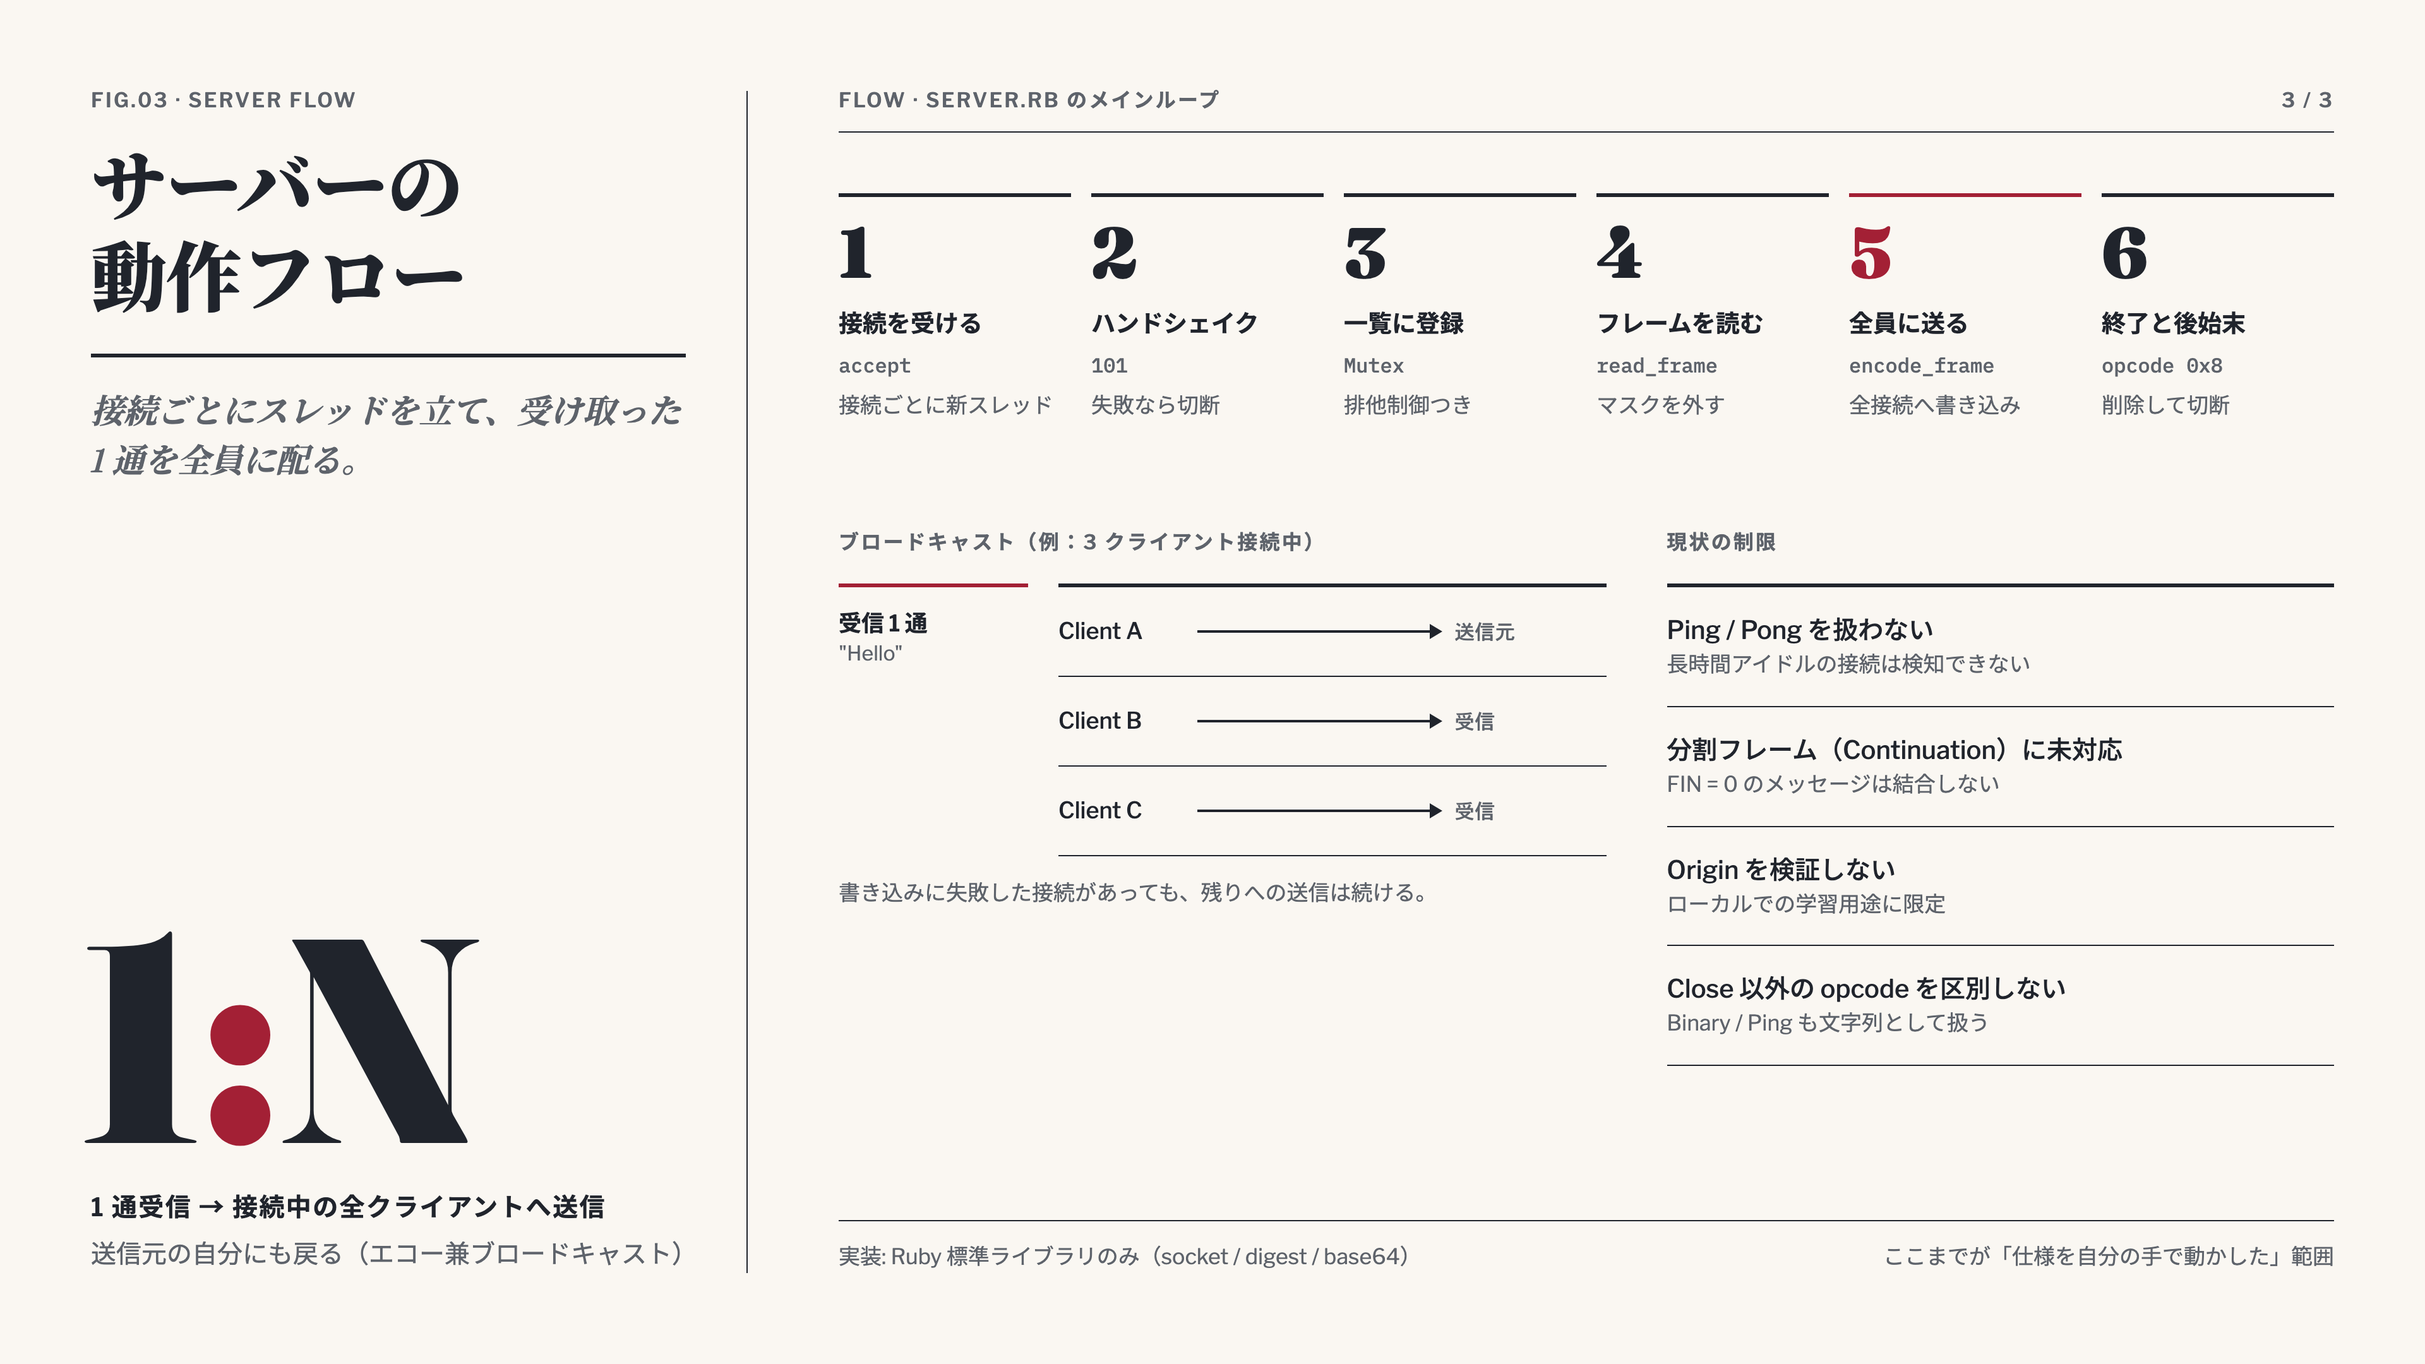
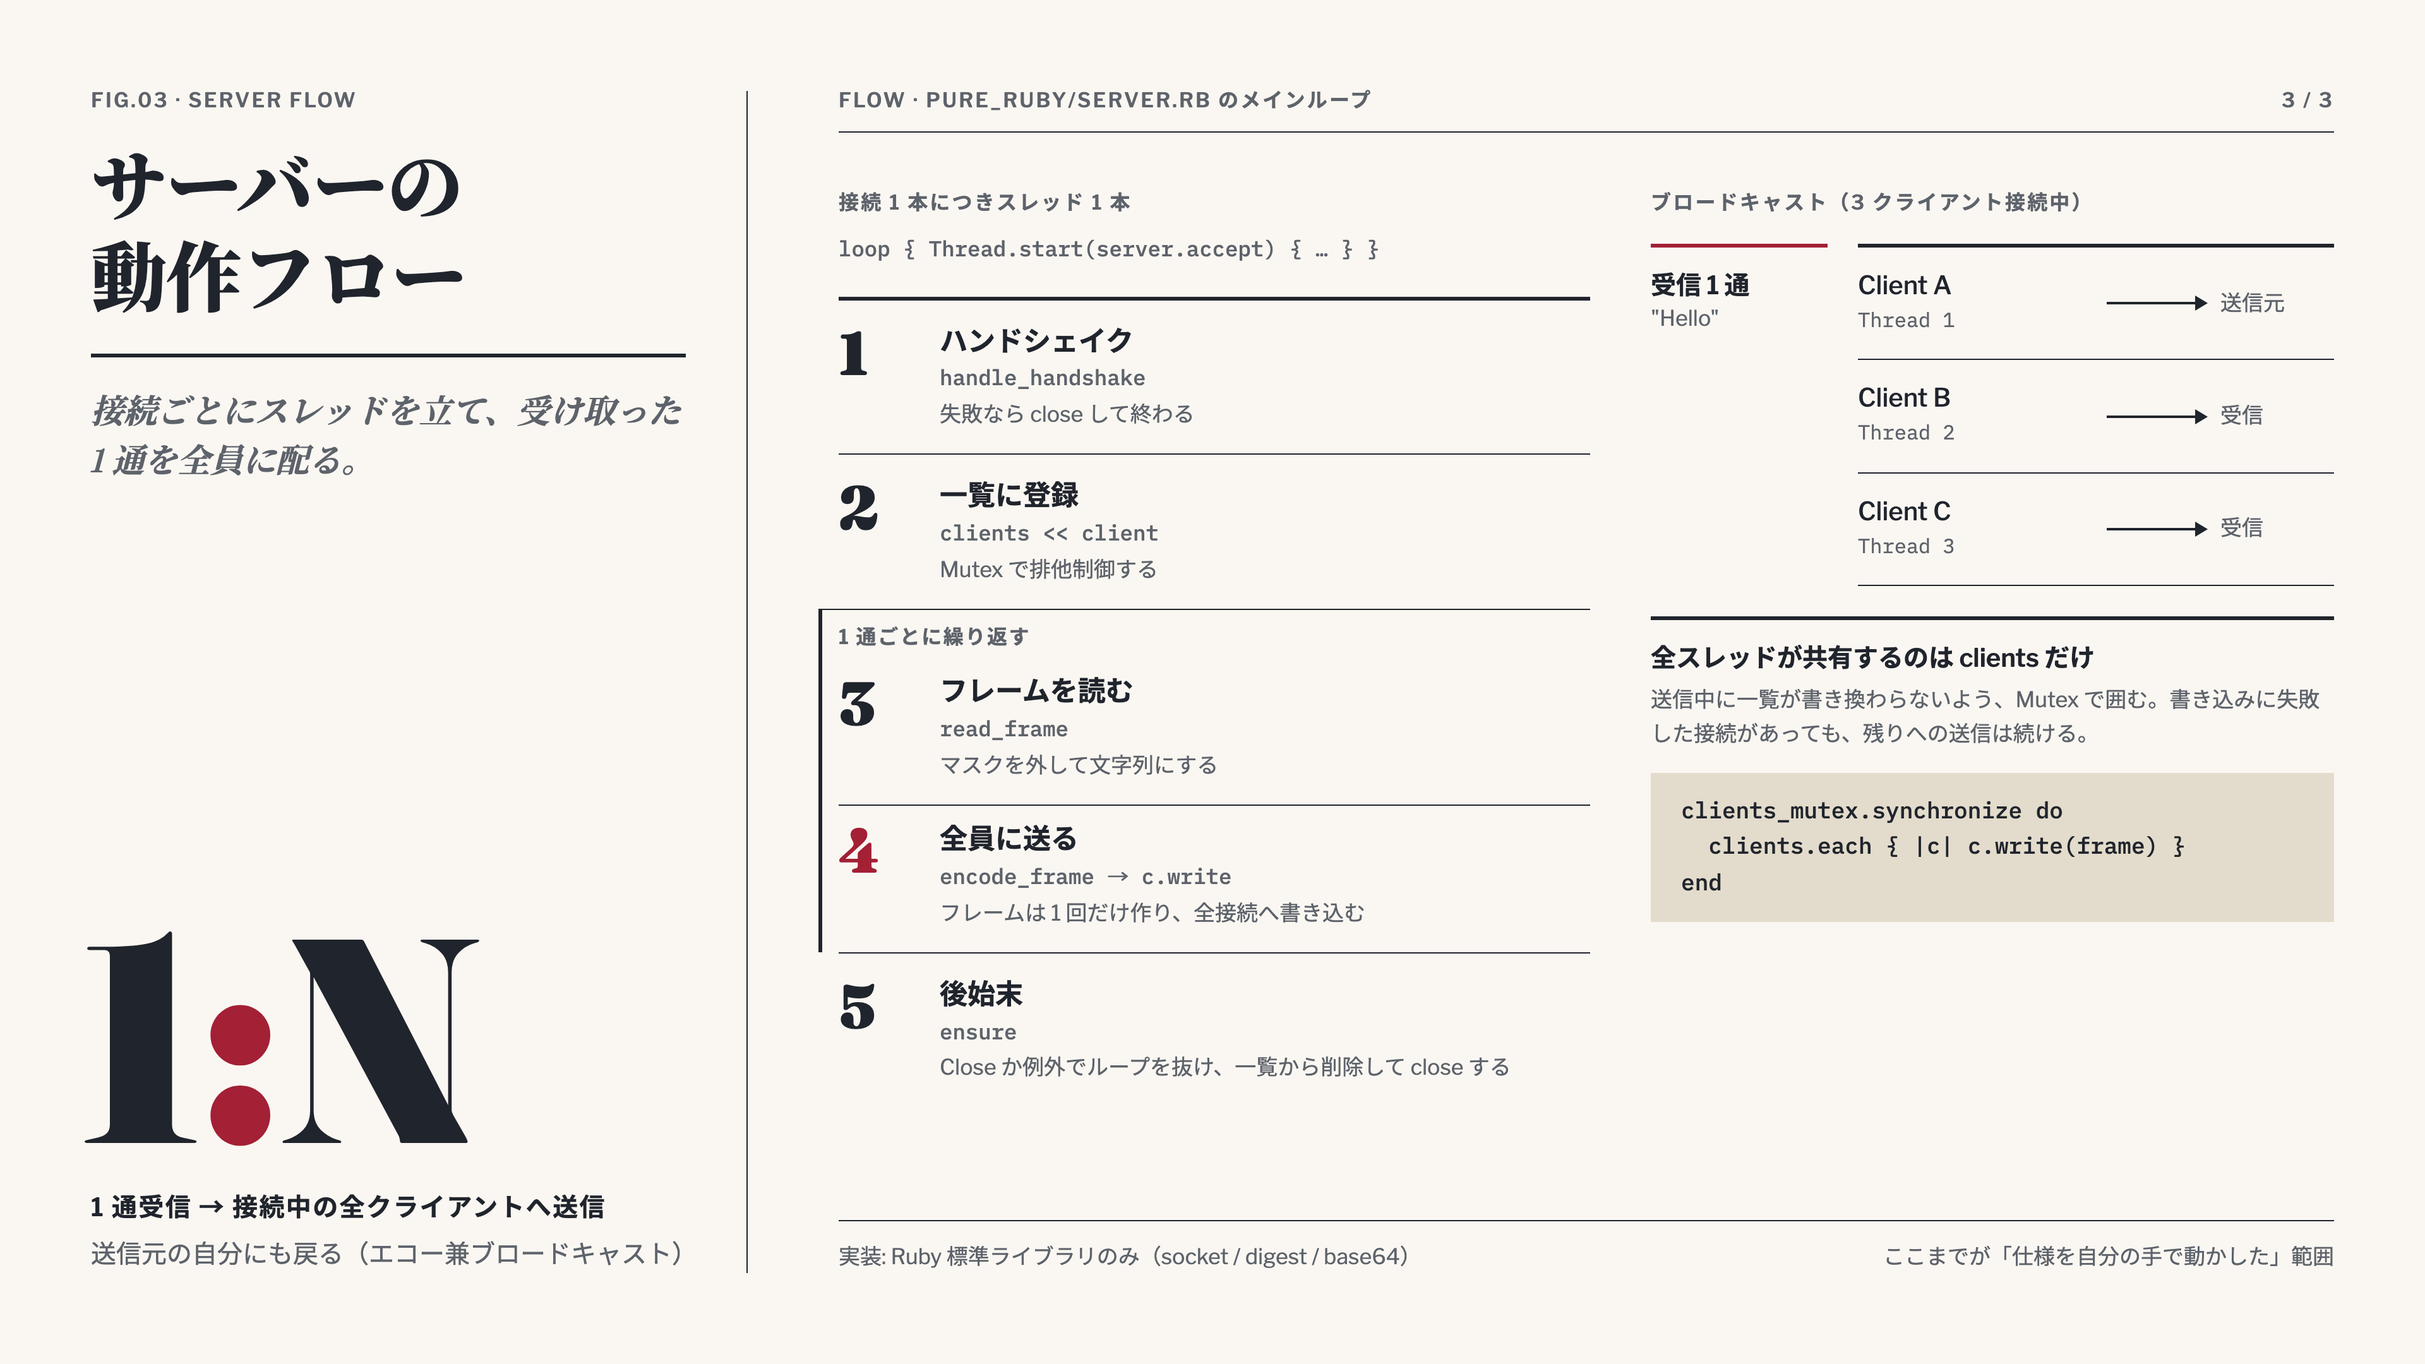
Add Action Cable chat channel, figures and README part 3
- rails: enable Action Cable, async adapter, Connection/Channel/ChatChannel, test client in public/
- docs: add Action Cable structure figure, rework FIG.03 server flow, fix FIG.01 header path
- README: add part 3 (Rails / Action Cable), align 2.3 steps with FIG.03

diff --git a/docs/src/03-server-flow.html b/docs/src/03-server-flow.html
@@ -3,7 +3,7 @@
 <head>
 <meta charset="utf-8">
 <title>WebSocket Server Flow</title>
-<!-- Composition: Editorial spread (1/4 : 3/4). Left column = giant "1:N" numeral (one message in, N frames out), right column = numbered flow steps + broadcast fan-out + limits. -->
+<!-- Composition: Editorial spread (1/4 : 3/4). Left = giant 1:N numeral. Right = two columns: one connection thread lifecycle (with loop bracket) and the shared clients broadcast. -->
 <link rel="preconnect" href="https://fonts.googleapis.com">
 <link rel="preconnect" href="https://fonts.gstatic.com" crossorigin>
 <link href="https://fonts.googleapis.com/css2?family=Fraunces:ital,opsz,wght@0,9..144,400;0,9..144,900;1,9..144,400&family=Libre+Franklin:wght@400;500;600&family=IBM+Plex+Mono:wght@400;500&family=Noto+Sans+JP:wght@400;500;700&family=Noto+Serif+JP:wght@700;900&display=swap" rel="stylesheet">
@@ -36,31 +36,34 @@ h1 { font: 900 60px/1.2 var(--font-display); letter-spacing: -0.01em; margin-top
 .folio { display: flex; justify-content: space-between; font: 600 16px/1 var(--font-body); letter-spacing: .1em; text-transform: uppercase; color: var(--ink-muted); padding-bottom: var(--space-2); border-bottom: 1px solid var(--ink); }
 .sec { font: 600 16px/1 var(--font-body); text-transform: uppercase; letter-spacing: .1em; color: var(--ink-muted); }
 
-.steps { margin-top: var(--space-4); display: grid; grid-template-columns: repeat(6, 1fr); gap: var(--space-2); }
-.st { border-top: 3px solid var(--ink); padding-top: var(--space-2); }
-.st .n { font: 900 56px/1 var(--font-display); }
-.st .h { font: 600 19px/1.4 var(--font-body); margin-top: var(--space-2); }
-.st .c { font: 500 16px/1.5 var(--font-code); color: var(--ink-muted); margin-top: 6px; }
-.st .d { font: 400 17px/1.5 var(--font-body); color: var(--ink-muted); margin-top: var(--space-1); }
-.st.hot { border-top-color: var(--accent); }
-.st.hot .n { color: var(--accent); }
-
-.lower { display: grid; grid-template-columns: 1.15fr 1fr; gap: var(--space-4); margin-top: 88px; }
-.fan { margin-top: var(--space-3); display: grid; grid-template-columns: 150px 1fr; gap: 0 var(--space-3); }
+.cols { display: grid; grid-template-columns: 1.1fr 1fr; gap: var(--space-4); margin-top: var(--space-4); }
+.tag { font: 500 17px/1.5 var(--font-code); color: var(--ink-muted); margin-top: var(--space-2); }
+.flow { margin-top: var(--space-3); }
+.row { display: grid; grid-template-columns: 64px 1fr; gap: 0 var(--space-2); padding: 18px 0; border-top: 1px solid var(--ink); }
+.flow > .row:first-child { border-top: 3px solid var(--ink); }
+.row .n { font: 900 48px/1 var(--font-display); }
+.row .h { font: 600 22px/1.3 var(--font-body); }
+.row .c { font: 500 17px/1.4 var(--font-code); color: var(--ink-muted); margin-top: 4px; }
+.row .d { font: 400 17px/1.5 var(--font-body); color: var(--ink-muted); margin-top: 4px; }
+.row.hot .n { color: var(--accent); }
+.loop { border-left: 3px solid var(--ink); margin-left: -16px; padding-left: 13px; border-top: 1px solid var(--ink); }
+.loop .lp { font: 600 16px/1 var(--font-body); letter-spacing: .08em; color: var(--ink-muted); padding-top: 14px; padding-bottom: 8px; }
+.loop .row { border-top: 0; padding-top: 12px; }
+.loop .row + .row { border-top: 1px solid var(--ink); }
+.fan { margin-top: var(--space-3); display: grid; grid-template-columns: 140px 1fr; gap: 0 var(--space-3); }
 .fan .src { border-top: 3px solid var(--accent); padding-top: var(--space-2); }
-.fan .src b { display: block; font: 600 18px/1.4 var(--font-body); }
-.fan .src span { font: 400 16px/1.5 var(--font-body); color: var(--ink-muted); }
-.fan .dst div { display: grid; grid-template-columns: 110px 1fr 120px; align-items: center; padding: 26px 0; border-bottom: 1px solid var(--ink); font: 500 18px/1 var(--font-body); }
-.fan .dst div:first-child { border-top: 3px solid var(--ink); }
+.fan .src b { display: block; font: 600 20px/1.4 var(--font-body); }
+.fan .src span { font: 400 17px/1.5 var(--font-body); color: var(--ink-muted); }
+.fan .dst > div { display: grid; grid-template-columns: 1fr 90px 90px; align-items: center; padding: 20px 0; border-bottom: 1px solid var(--ink); font: 500 20px/1 var(--font-body); }
+.fan .dst > div:first-child { border-top: 3px solid var(--ink); }
+.fan .dst small { display: block; font: 400 16px/1.4 var(--font-code); color: var(--ink-muted); margin-top: 6px; }
 .fan .dst i { display: block; height: 2px; background: var(--ink); position: relative; margin-right: 12px; }
 .fan .dst i::after { content: ""; position: absolute; right: -2px; top: -5px; border-left: 10px solid var(--ink); border-top: 6px solid transparent; border-bottom: 6px solid transparent; }
-.fan .dst em { font: 400 16px/1 var(--font-code); font-style: normal; color: var(--ink-muted); }
-.note { font: 400 17px/1.6 var(--font-body); color: var(--ink-muted); margin-top: var(--space-2); }
-
-.lim { margin-top: var(--space-3); }
-.lim div { padding: 20px 0; border-bottom: 1px solid var(--ink); font: 500 20px/1.4 var(--font-body); }
-.lim div:first-child { border-top: 3px solid var(--ink); }
-.lim div span { color: var(--ink-muted); font-weight: 400; font-size: 17px; display: block; margin-top: 2px; }
+.fan .dst em { font: 400 17px/1 var(--font-body); font-style: normal; color: var(--ink-muted); }
+.list { margin-top: var(--space-3); border-top: 3px solid var(--ink); padding-top: var(--space-2); }
+.list b { font: 600 20px/1.4 var(--font-body); }
+.list p { font: 400 17px/1.6 var(--font-body); color: var(--ink-muted); margin-top: 6px; }
+pre { font: 500 18px/1.6 var(--font-code); background: var(--surface-2); padding: var(--space-2) var(--space-3); margin-top: var(--space-2); }
 .foot { margin-top: auto; display: flex; justify-content: space-between; font: 400 17px/1.5 var(--font-body); color: var(--ink-muted); border-top: 1px solid var(--ink); padding-top: var(--space-2); }
 </style>
 </head>
@@ -79,38 +82,40 @@ h1 { font: 900 60px/1.2 var(--font-display); letter-spacing: -0.01em; margin-top
   </section>
 
   <section class="right">
-    <div class="folio"><span>Flow · server.rb のメインループ</span><span>3 / 3</span></div>
+    <div class="folio"><span>Flow · pure_ruby/server.rb のメインループ</span><span>3 / 3</span></div>
 
-    <div class="steps">
-      <div class="st"><div class="n">1</div><div class="h">接続を受ける</div><div class="c">accept</div><div class="d">接続ごとに新スレッド</div></div>
-      <div class="st"><div class="n">2</div><div class="h">ハンドシェイク</div><div class="c">101</div><div class="d">失敗なら切断</div></div>
-      <div class="st"><div class="n">3</div><div class="h">一覧に登録</div><div class="c">Mutex</div><div class="d">排他制御つき</div></div>
-      <div class="st"><div class="n">4</div><div class="h">フレームを読む</div><div class="c">read_frame</div><div class="d">マスクを外す</div></div>
-      <div class="st hot"><div class="n">5</div><div class="h">全員に送る</div><div class="c">encode_frame</div><div class="d">全接続へ書き込み</div></div>
-      <div class="st"><div class="n">6</div><div class="h">終了と後始末</div><div class="c">opcode 0x8</div><div class="d">削除して切断</div></div>
-    </div>
-
-    <div class="lower">
+    <div class="cols">
       <div>
-        <div class="sec">ブロードキャスト（例：3 クライアント接続中）</div>
-        <div class="fan">
-          <div class="src"><b>受信 1 通</b><span>"Hello"</span></div>
-          <div class="dst">
-            <div>Client A<i></i><em>送信元</em></div>
-            <div>Client B<i></i><em>受信</em></div>
-            <div>Client C<i></i><em>受信</em></div>
+        <div class="sec">接続 1 本につきスレッド 1 本</div>
+        <div class="tag">loop { Thread.start(server.accept) { … } }</div>
+        <div class="flow">
+          <div class="row"><div class="n">1</div><div><div class="h">ハンドシェイク</div><div class="c">handle_handshake</div><div class="d">失敗なら close して終わる</div></div></div>
+          <div class="row"><div class="n">2</div><div><div class="h">一覧に登録</div><div class="c">clients &lt;&lt; client</div><div class="d">Mutex で排他制御する</div></div></div>
+          <div class="loop">
+            <div class="lp">1 通ごとに繰り返す</div>
+            <div class="row"><div class="n">3</div><div><div class="h">フレームを読む</div><div class="c">read_frame</div><div class="d">マスクを外して文字列にする</div></div></div>
+            <div class="row hot"><div class="n">4</div><div><div class="h">全員に送る</div><div class="c">encode_frame → c.write</div><div class="d">フレームは 1 回だけ作り、全接続へ書き込む</div></div></div>
           </div>
+          <div class="row"><div class="n">5</div><div><div class="h">後始末</div><div class="c">ensure</div><div class="d">Close か例外でループを抜け、一覧から削除して close する</div></div></div>
         </div>
-        <p class="note">書き込みに失敗した接続があっても、残りへの送信は続ける。</p>
       </div>
 
       <div>
-        <div class="sec">現状の制限</div>
-        <div class="lim">
-          <div>Ping / Pong を扱わない<span>長時間アイドルの接続は検知できない</span></div>
-          <div>分割フレーム（Continuation）に未対応<span>FIN = 0 のメッセージは結合しない</span></div>
-          <div>Origin を検証しない<span>ローカルでの学習用途に限定</span></div>
-          <div>Close 以外の opcode を区別しない<span>Binary / Ping も文字列として扱う</span></div>
+        <div class="sec">ブロードキャスト（3 クライアント接続中）</div>
+        <div class="fan">
+          <div class="src"><b>受信 1 通</b><span>"Hello"</span></div>
+          <div class="dst">
+            <div><span>Client A<small>Thread 1</small></span><i></i><em>送信元</em></div>
+            <div><span>Client B<small>Thread 2</small></span><i></i><em>受信</em></div>
+            <div><span>Client C<small>Thread 3</small></span><i></i><em>受信</em></div>
+          </div>
+        </div>
+        <div class="list">
+          <b>全スレッドが共有するのは clients だけ</b>
+          <p>送信中に一覧が書き換わらないよう、Mutex で囲む。書き込みに失敗した接続があっても、残りへの送信は続ける。</p>
+          <pre>clients_mutex.synchronize do
+  clients.each { |c| c.write(frame) }
+end</pre>
         </div>
       </div>
     </div>

diff --git a/rails/public/index.html b/rails/public/index.html
@@ -1,0 +1,58 @@
+<!DOCTYPE html>
+<html lang="ko">
+<head>
+  <meta charset="UTF-8">
+  <meta name="viewport" content="width=device-width, initial-scale=1">
+  <title>test (rails)</title>
+  <style>
+    table { border-collapse: collapse; margin-top: 12px; }
+    th, td { border: 1px solid #ccc; padding: 4px 10px; text-align: left; }
+    th { background: #f3f3f3; }
+  </style>
+</head>
+<body>
+  <h1>test (rails)</h1>
+
+  <input id="msg" placeholder="message">
+  <button id="send">send</button>
+
+  <table>
+    <thead><tr><th>time</th><th>dir</th><th>type</th><th>content</th></tr></thead>
+    <tbody id="log"></tbody>
+  </table>
+
+  <script>
+    const row = (dir, type, content = '') => {
+      const tr = document.createElement('tr');
+      [new Date().toLocaleTimeString(), dir, type, content].forEach((v) => {
+        tr.append(Object.assign(document.createElement('td'), { textContent: v }));
+      });
+      document.getElementById('log').append(tr);
+    };
+
+    const identifier = JSON.stringify({ channel: 'ChatChannel' });
+    const ws = new WebSocket(`ws://${location.host}/cable`, 'actioncable-v1-json');
+
+    ws.onopen = () => {
+      row('-', 'open');
+      ws.send(JSON.stringify({ command: 'subscribe', identifier }));
+      row('send', 'subscribe', 'ChatChannel');
+    };
+    ws.onmessage = (e) => {
+      const d = JSON.parse(e.data);
+      if (d.type === 'ping') return;
+      row('recv', d.type || 'message', d.message ? JSON.stringify(d.message) : '');
+    };
+    ws.onclose = () => row('-', 'close');
+
+    document.getElementById('send').onclick = () => {
+      const m = document.getElementById('msg');
+      if (m.value) {
+        ws.send(JSON.stringify({ command: 'message', identifier, data: JSON.stringify({ text: m.value }) }));
+        row('send', 'message', m.value);
+        m.value = '';
+      }
+    };
+  </script>
+</body>
+</html>

diff --git a/docs/src/01-handshake.html b/docs/src/01-handshake.html
@@ -70,7 +70,7 @@ h1 { font: 900 60px/1.2 var(--font-display); letter-spacing: -0.01em; margin-top
   </section>
 
   <section class="right">
-    <div class="folio"><span>Handshake · server.rb の handle_handshake</span><span>1 / 3</span></div>
+    <div class="folio"><span>Handshake · pure_ruby/server.rb の handle_handshake</span><span>1 / 3</span></div>
 
     <div class="msg">
       <div class="who">① ブラウザ → サーバー<span>HTTP/1.1 GET</span></div>

diff --git a/rails/config/application.rb b/rails/config/application.rb
@@ -11,7 +11,7 @@ require "action_controller/railtie"
 # require "action_mailbox/engine"
 # require "action_text/engine"
 require "action_view/railtie"
-# require "action_cable/engine"
+require "action_cable/engine"
 # require "rails/test_unit/railtie"
 
 # Require the gems listed in Gemfile, including any gems

diff --git a/rails/app/channels/chat_channel.rb b/rails/app/channels/chat_channel.rb
@@ -1,0 +1,9 @@
+class ChatChannel < ApplicationCable::Channel
+  def subscribed
+    stream_from "chat"
+  end
+
+  def receive(data)
+    ActionCable.server.broadcast("chat", data)
+  end
+end

diff --git a/rails/app/channels/application_cable/connection.rb b/rails/app/channels/application_cable/connection.rb
@@ -1,0 +1,6 @@
+module ApplicationCable
+  class Connection < ActionCable::Connection::Base
+    identified_by :current_user
+    def connect; end
+  end
+end

diff --git a/rails/app/channels/application_cable/channel.rb b/rails/app/channels/application_cable/channel.rb
@@ -1,0 +1,4 @@
+module ApplicationCable
+  class Channel < ActionCable::Channel::Base
+  end
+end
